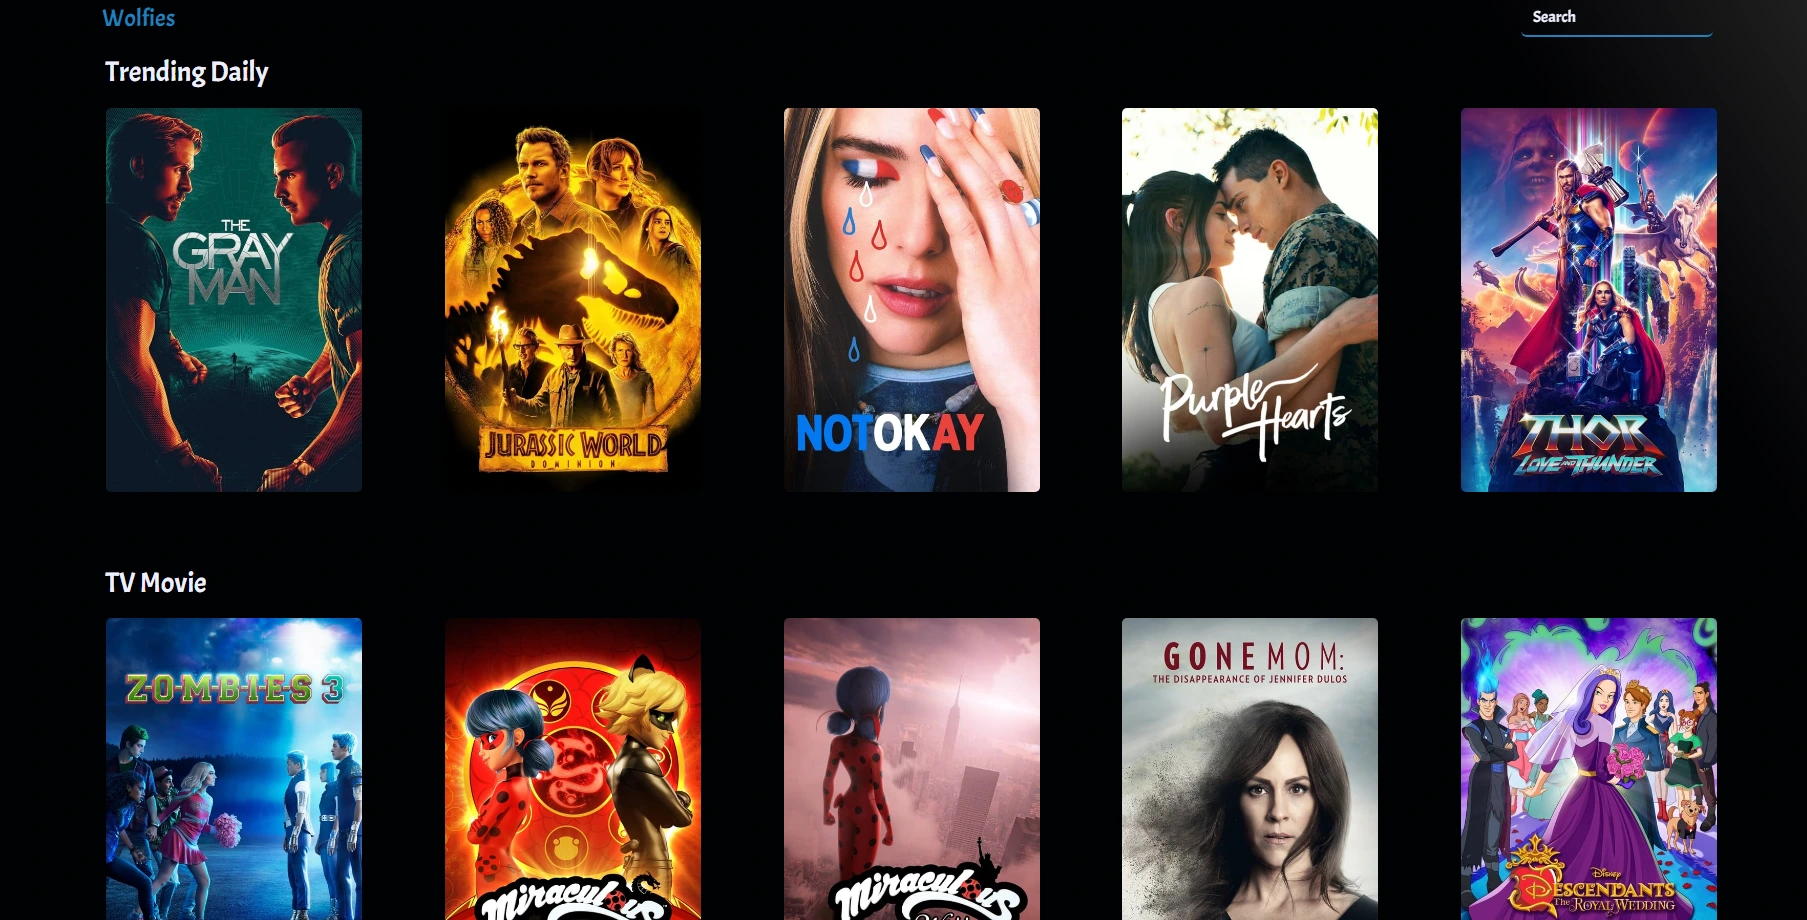
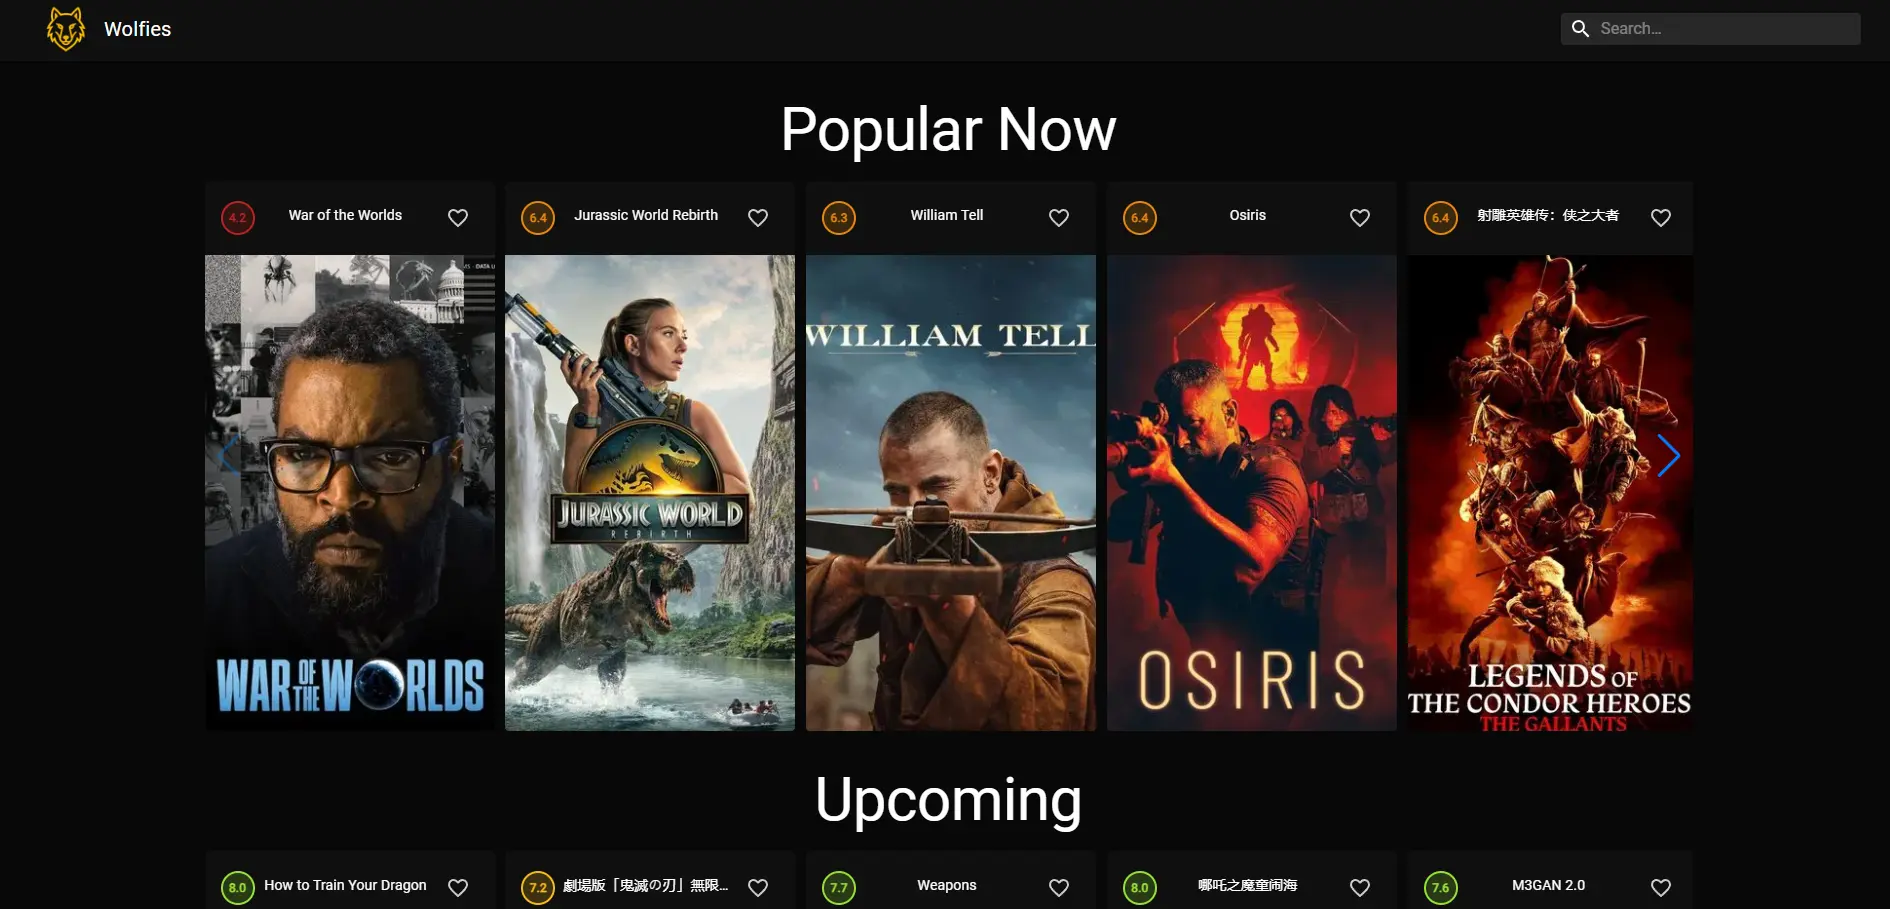
Added wolfies to the projects + removed music and movie db. Added next.js search tab

diff --git a/src/app/projectData.tsx b/src/app/projectData.tsx
@@ -9,14 +9,15 @@ export interface Project {
 }
 
 export const projectData: Project[] = [
-	// {
-	//     "name": "Wolfies",
-	//     "description": "View/search movie information",
-	//     "image": "Wolfies.webp",
-	//     "github": "https://github.com/SeanGenge/Wolfies",
-	//     "deployed": null,
-	//     "secondaryLanguages": ["React", "JavaScript", "TheMovieDB API", "HTML", "CSS", "Bootstrap", "SCSS", "Node.js"]
-	// },
+	{
+	    "name": "Wolfies",
+	    "description": "View/search movie information",
+	    "image": "Wolfies.webp",
+	    "github": "https://github.com/SeanGenge/Wolfies",
+		"deployed": "https://wolfies-xi.vercel.app/",
+		"primaryLanguages": ["next.js", "TheMovieDB API"],
+	    "secondaryLanguages": ["JavaScript", "HTML", "CSS", "Material UI"]
+	},
 	// {
 	// 	"name": "Farmers Market Organisator",
 	// 	"description": "Organize markets to rent out to stallholders or find products as a shopper",
@@ -35,15 +36,15 @@ export const projectData: Project[] = [
 		"primaryLanguages": ["JavaScript", "express", "handlebar.js"],
 		"secondaryLanguages": ["Heroku", "Handlebar.js", "HTML", "CSS", "Node.js"]
 	},
-	{
-		"name": "Movies and music db",
-		"description": "View/search movie and album information",
-		"image": "m_mDB.webp",
-		"github": "https://github.com/SeanGenge/m-mDB",
-		"deployed": "https://seangenge.github.io/m-mDB/",
-		"primaryLanguages": ["JavaScript", "TheMovieDB API"],
-		"secondaryLanguages": ["HTML", "CSS", "MaterializeCSS", "TheAudioDB API"]
-	},
+	// {
+	// 	"name": "Movies and music db",
+	// 	"description": "View/search movie and album information",
+	// 	"image": "m_mDB.webp",
+	// 	"github": "https://github.com/SeanGenge/m-mDB",
+	// 	"deployed": "https://seangenge.github.io/m-mDB/",
+	// 	"primaryLanguages": ["JavaScript", "TheMovieDB API"],
+	// 	"secondaryLanguages": ["HTML", "CSS", "MaterializeCSS", "TheAudioDB API"]
+	// },
 	{
 		"name": "Weather App",
 		"description": "View weather information on any city",

diff --git a/src/components/ProjectsGrid.tsx b/src/components/ProjectsGrid.tsx
@@ -14,7 +14,17 @@ export default function ProjectsGrid() {
 		
 		setCurrFilter(tempFilter);
 		
-		setFilteredProjects(projectData.filter(project => project.primaryLanguages.includes(tempFilter) || project.secondaryLanguages.includes(tempFilter) || tempFilter === "All"));
+		setFilteredProjects(
+			projectData.filter((project) =>
+				project.primaryLanguages.some(
+					(lang) => lang.toLowerCase() === tempFilter.toLowerCase()
+				) ||
+				project.secondaryLanguages.some(
+					(lang) => lang.toLowerCase() === tempFilter.toLowerCase()
+				) ||
+				tempFilter.toLowerCase() === "all"
+			)
+		);
 		
 		setFirstLoad(false);
 	};
@@ -37,6 +47,7 @@ export default function ProjectsGrid() {
 				className="hidden"
 			>
 				<ToggleButton value="All">All</ToggleButton>
+				<ToggleButton value="Next.js">Next.js</ToggleButton>
 				<ToggleButton value="React">React</ToggleButton>
 				<ToggleButton value="Node.js">Node.js</ToggleButton>
 			</ToggleButtonGroup>
